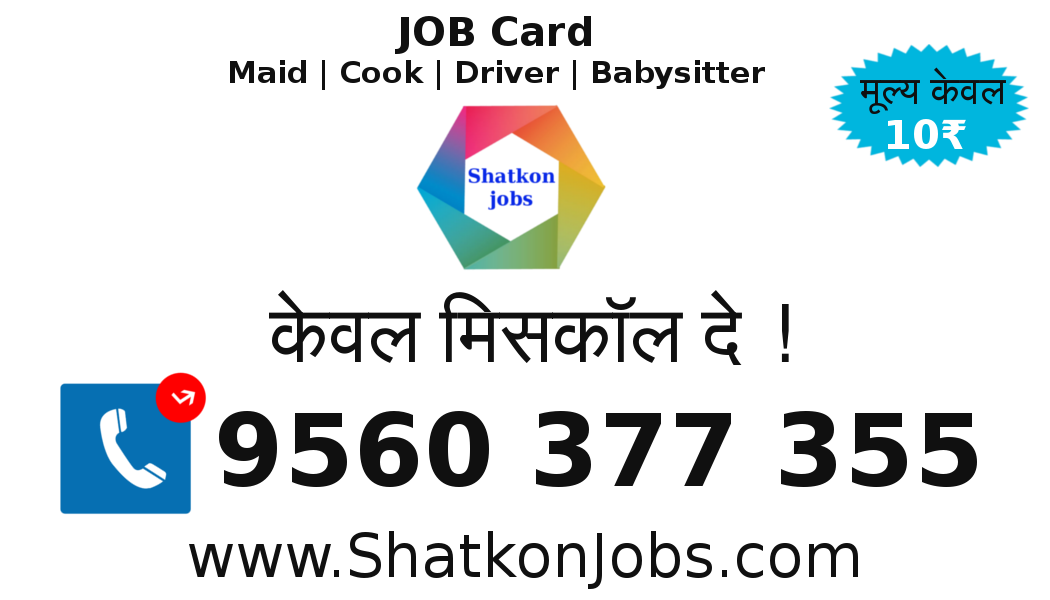
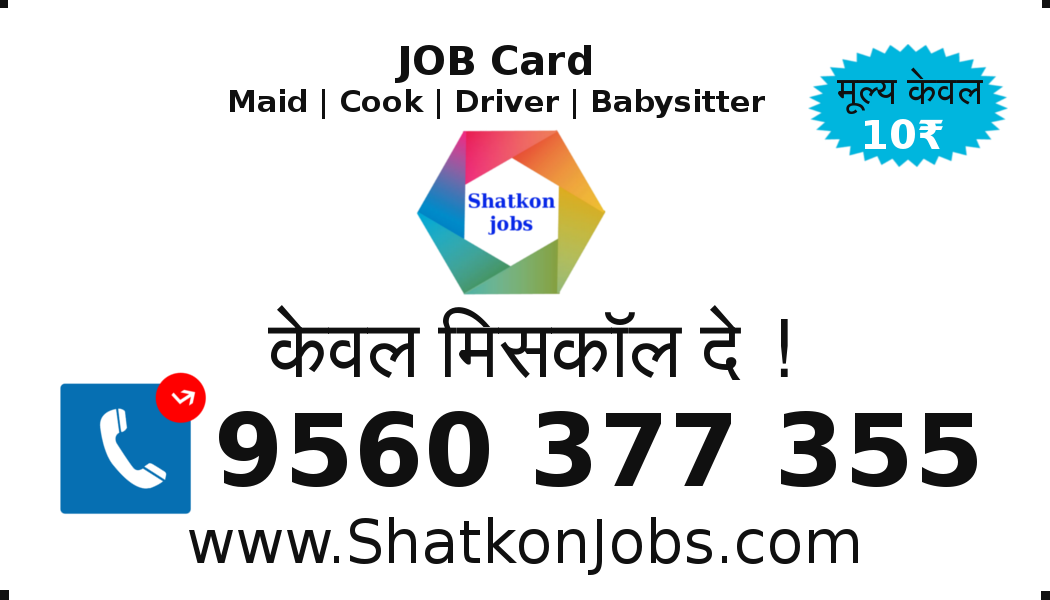
job card

diff --git a/jobCard.php b/jobCard.php
@@ -52,8 +52,8 @@ if($_GET['ids']) {
             $con = ($j%2==0)?'left':'right';
 
             $html .= '<div style="height: 5.9cm !important;background-image: url(\'images/jobCard.png\');background-position: center top;
-    background-size: 100% auto;width: 10.4cm;background-color: #fff;float: '.$con.';">
-                <div style="float:left;margin-left:-6cm;margin-top:0.1cm;font-size:small; "> S.No. '.date("Ymd") .$id[($i+$j)].'</div>
+    background-size: 100% auto;width: 10.47cm;background-color: #fff;float: '.$con.';">
+                <div style="float:left;margin-left:-6cm;margin-top:0.4cm;font-size:small; "> S.No. '.date("Ymd") .$id[($i+$j)].'</div>
 
             </div>';
             if($i+$j+2 > count($id))
